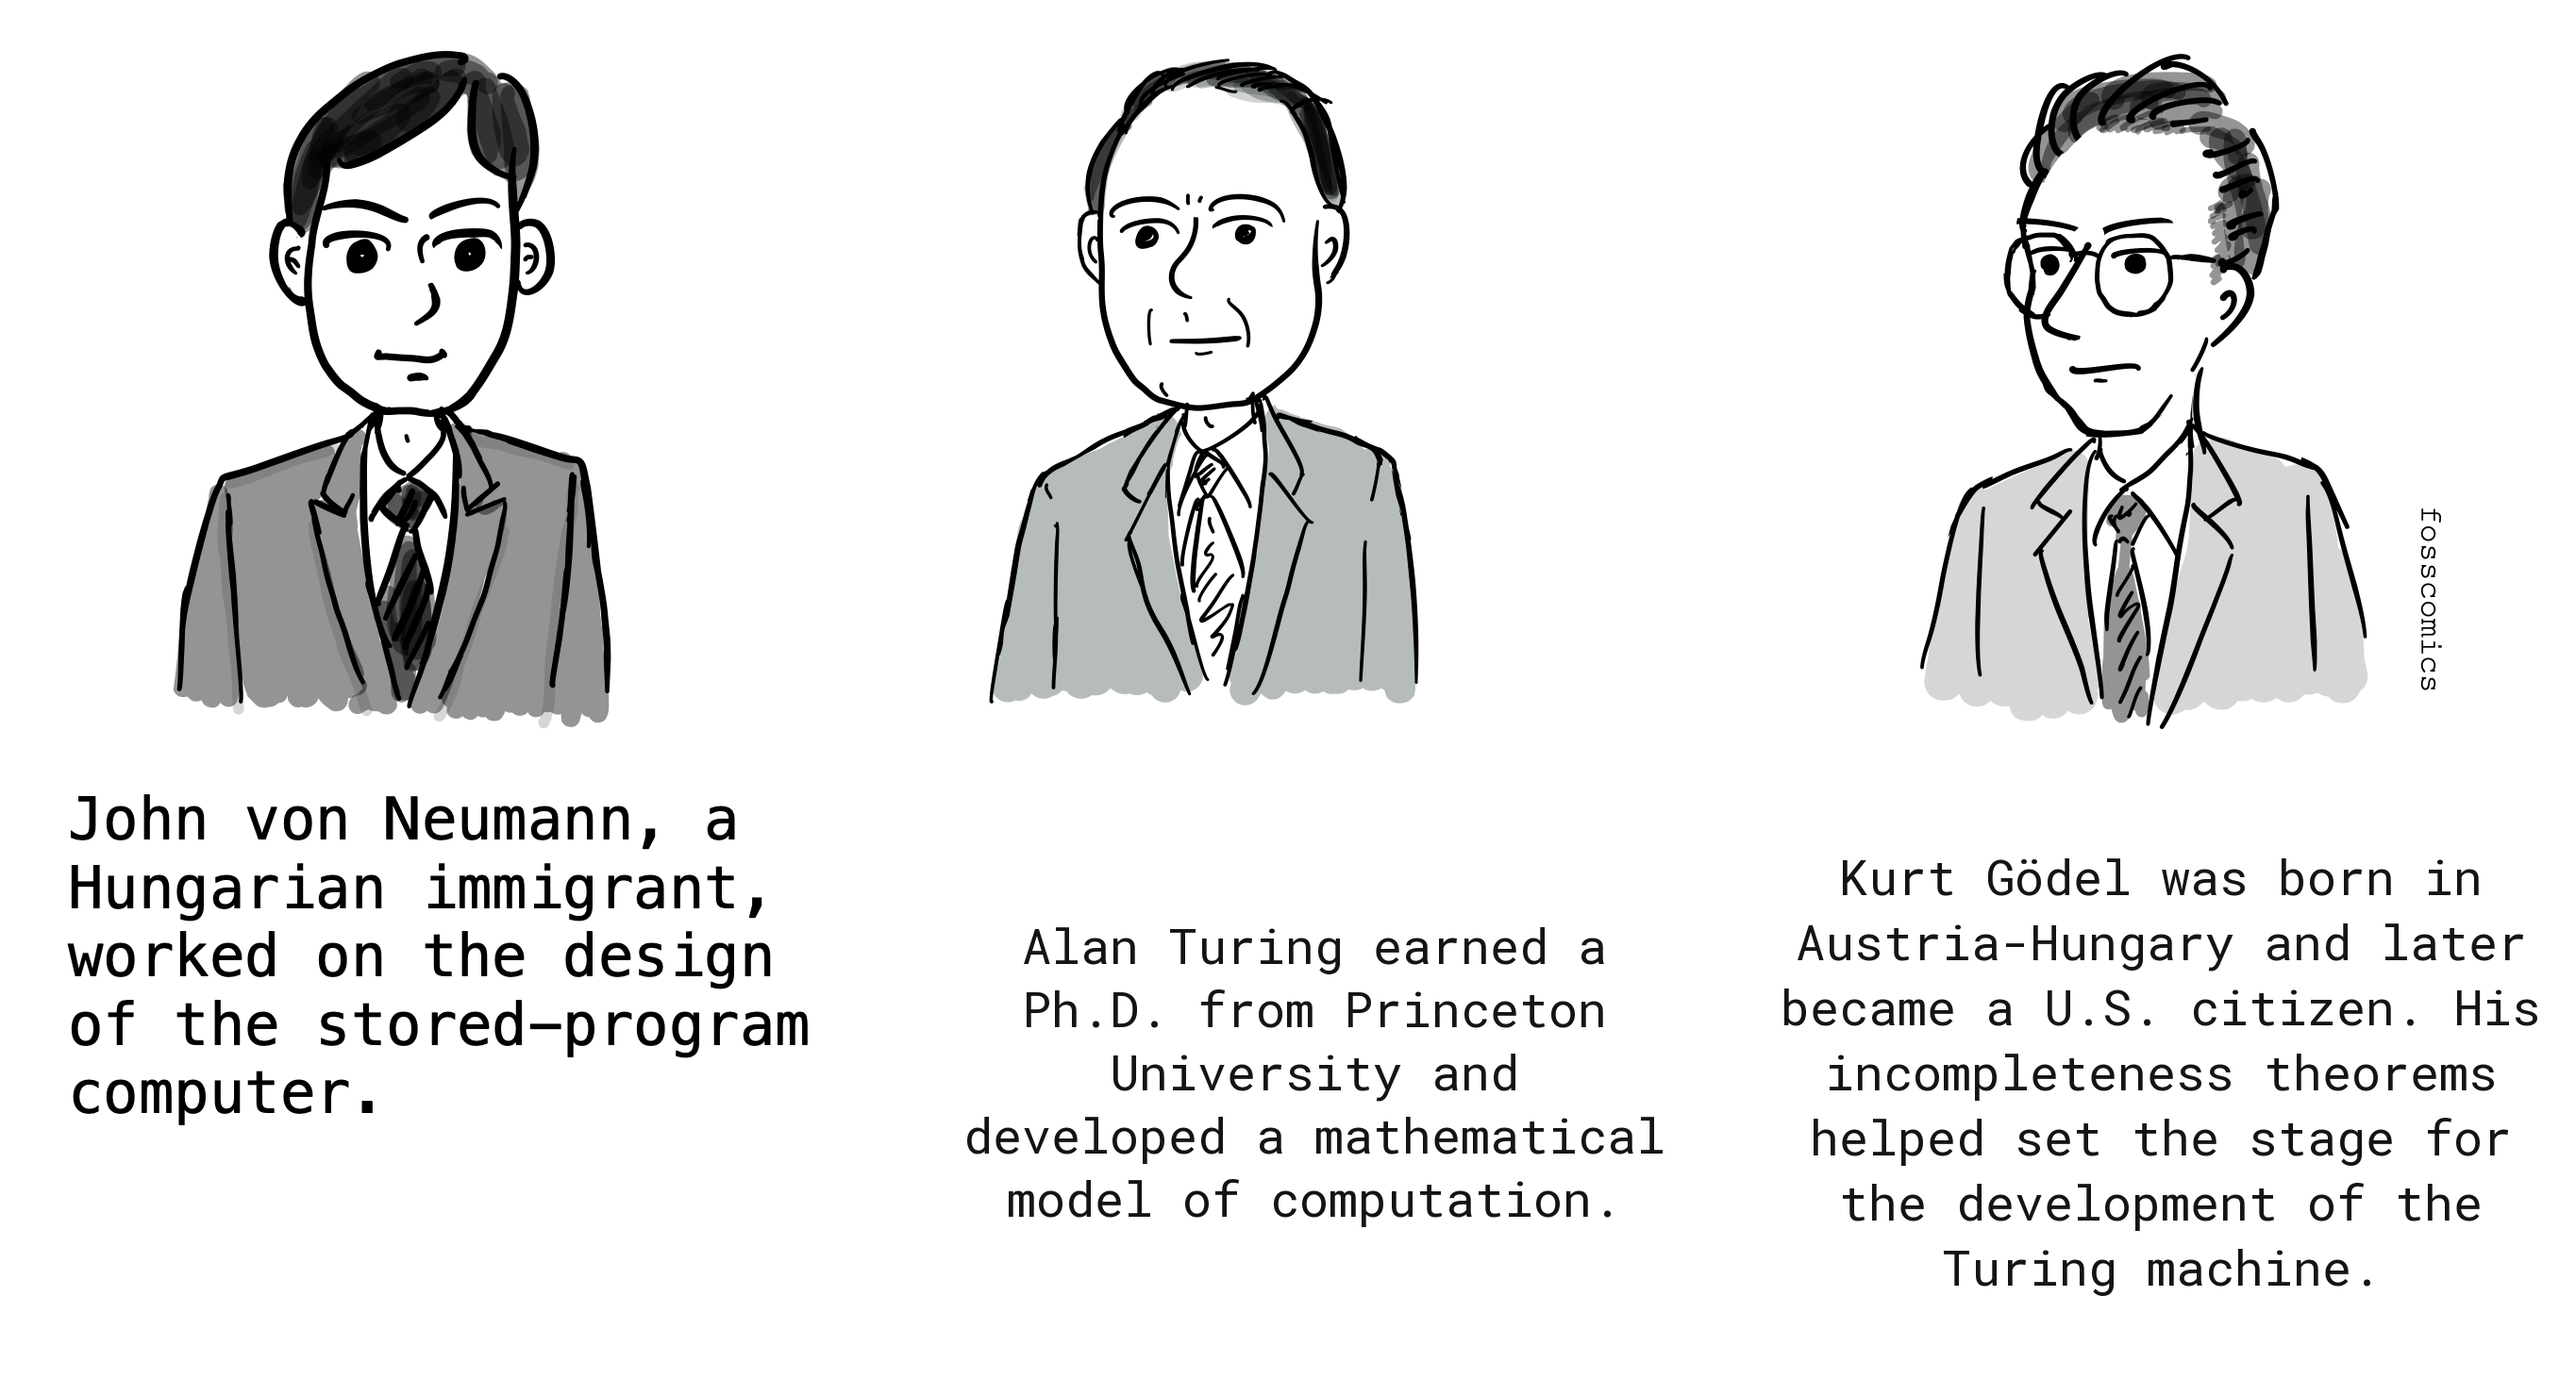
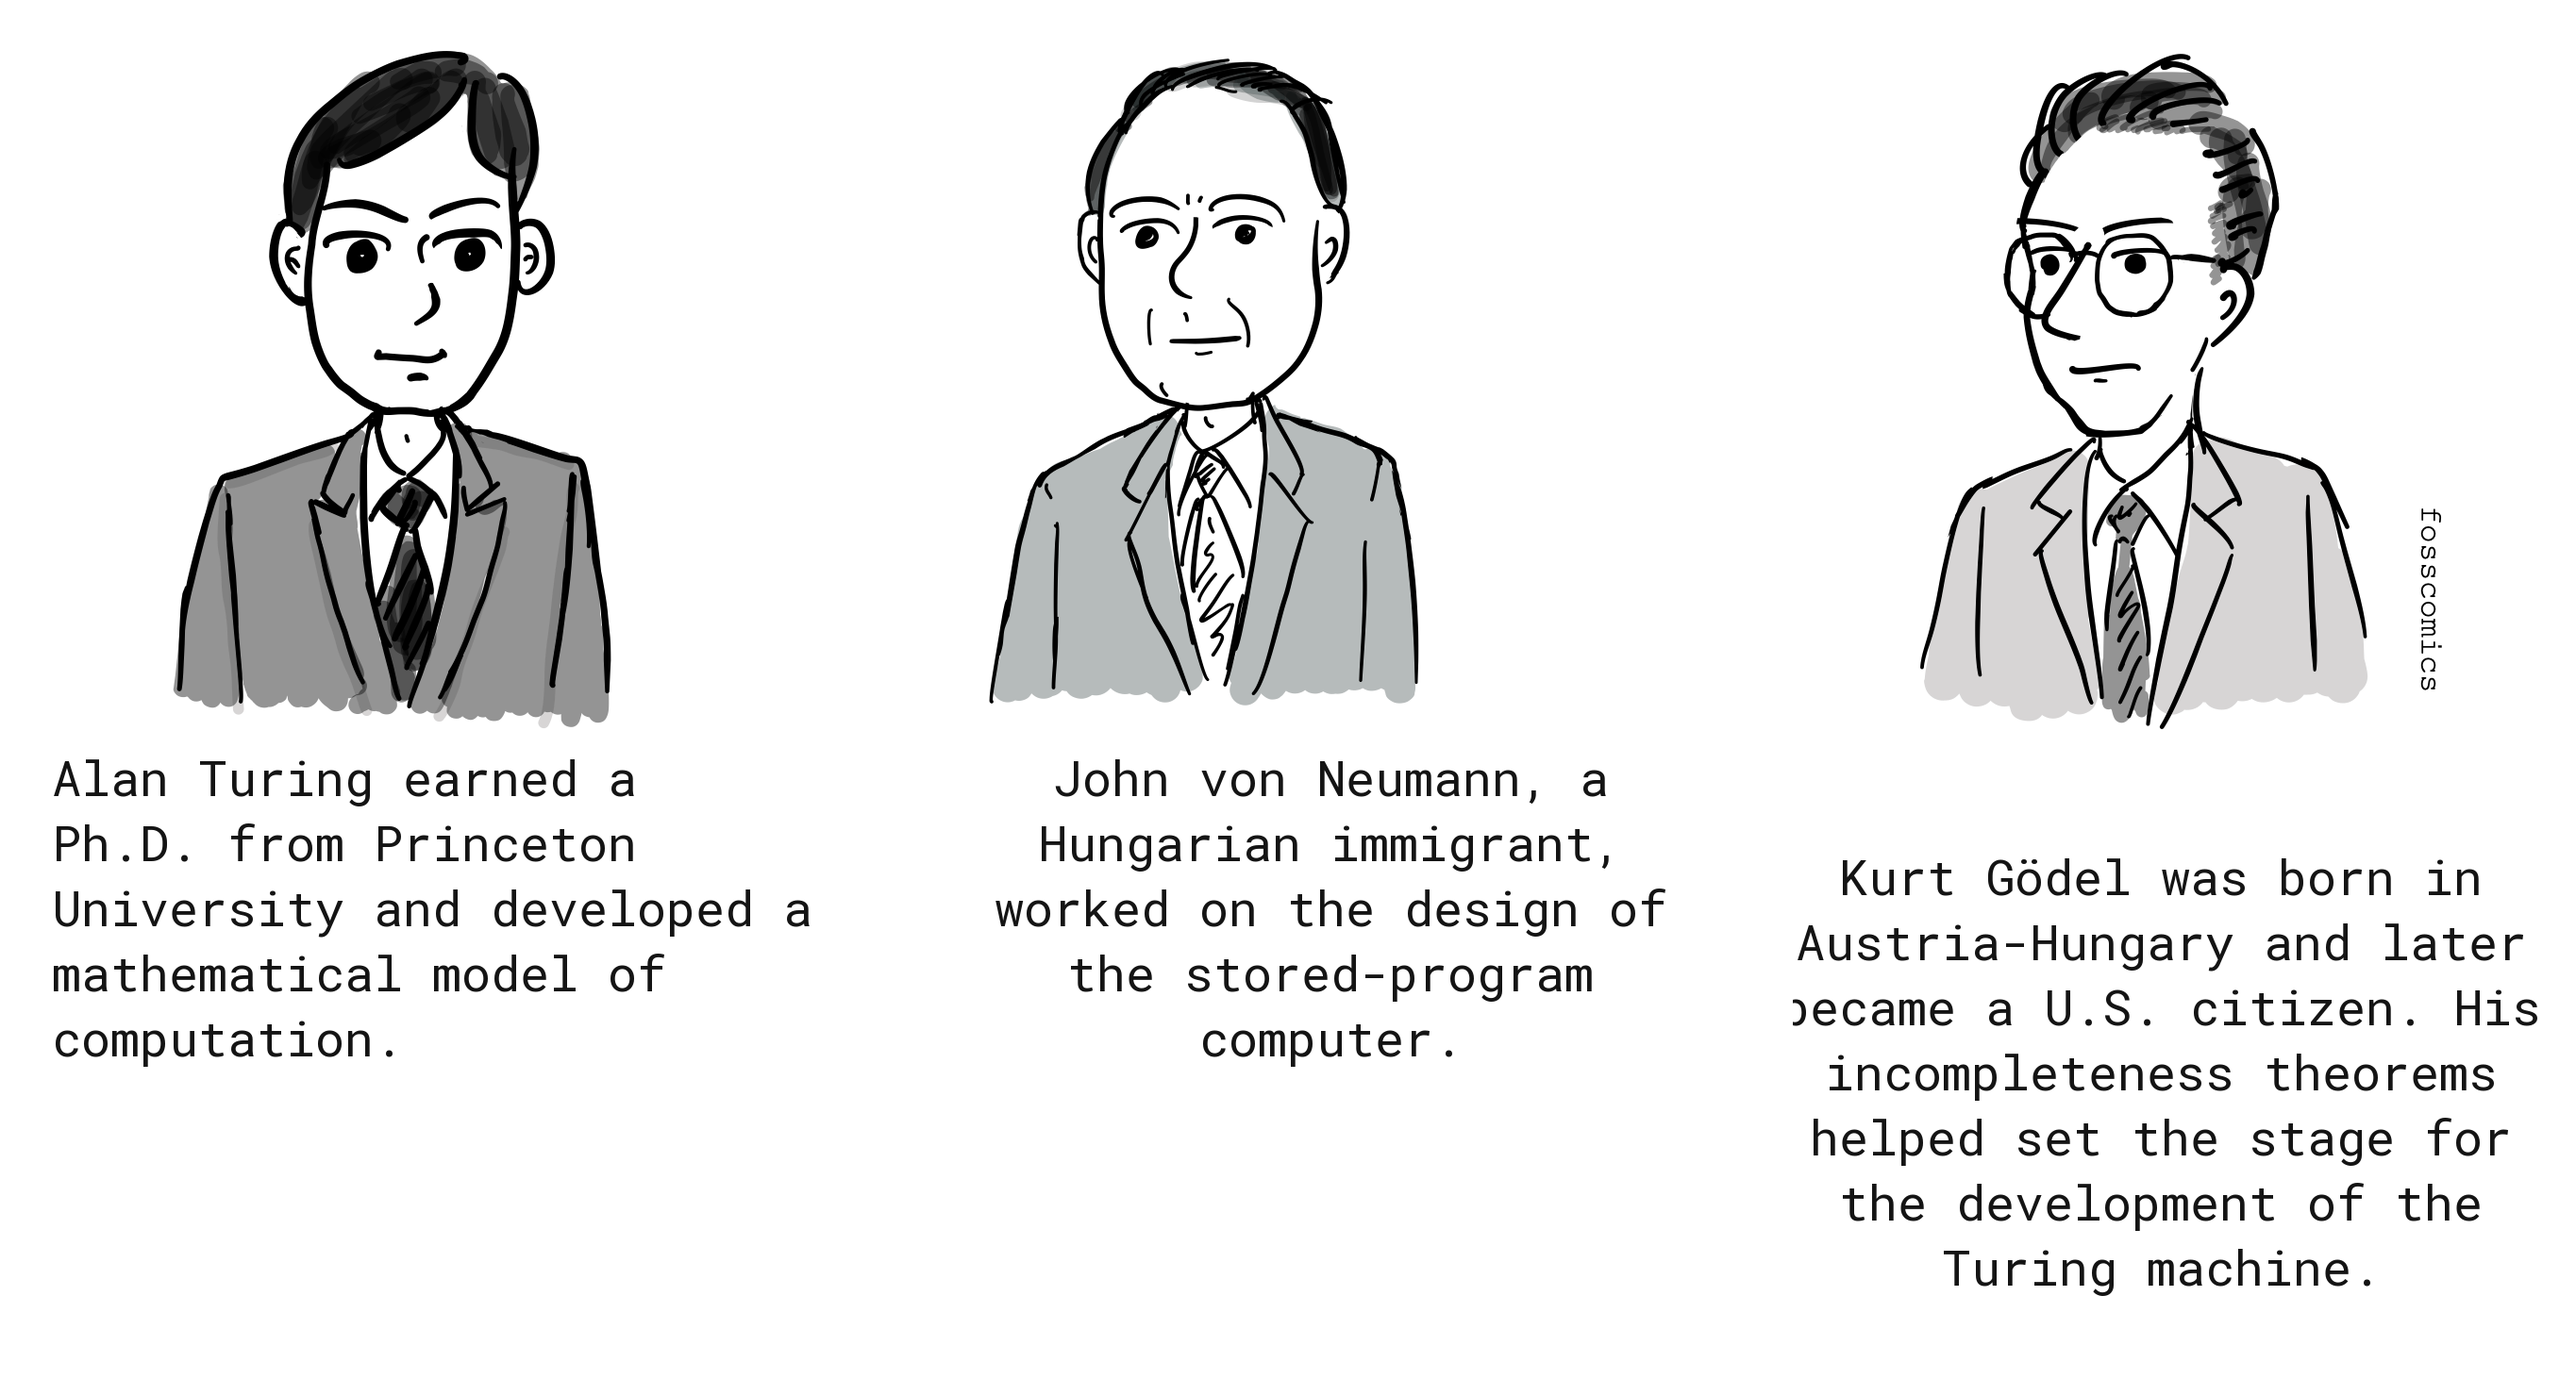
Update image references and enhance text clarity in the Alan Turing and Von Neumann post

Changed region(s): [[0.3736, 0.554, 0.6538, 0.8926], [0.0, 0.554, 0.3114, 0.8311]]

diff --git a/content/posts/2. Alan Turing and Von Neumann/index.md b/content/posts/2. Alan Turing and Von Neumann/index.md
@@ -80,7 +80,7 @@ During World War II, Britain, Germany, and the United States all developed pione
 
 In the United States, immigrants including von Neumann made major contributions alongside engineers, mathematicians, programmers, universities, companies, and government laboratories. Strong government support and a growing commercial market then helped the United States develop the world's largest early computer industry.
 
-![John von Neumann, a Hungarian immigrant, worked on the design of the stored-program computer. Alan Turing earned a Ph.D. from Princeton University and developed a mathematical model of computation. Kurt Gödel was born in Austria-Hungary and later became a U.S. citizen. His incompleteness theorems helped set the stage for the development of the Turing machine.](images/2_11.png)
+![Alan Turing earned a Ph.D. from Princeton University and developed a mathematical model of computation. John von Neumann, a Hungarian immigrant, worked on the design of the stored-program computer. Kurt Gödel was born in Austria-Hungary and later became a U.S. citizen. His incompleteness theorems helped set the stage for the development of the Turing machine.](images/2_11.png)
 
 
 ## References
